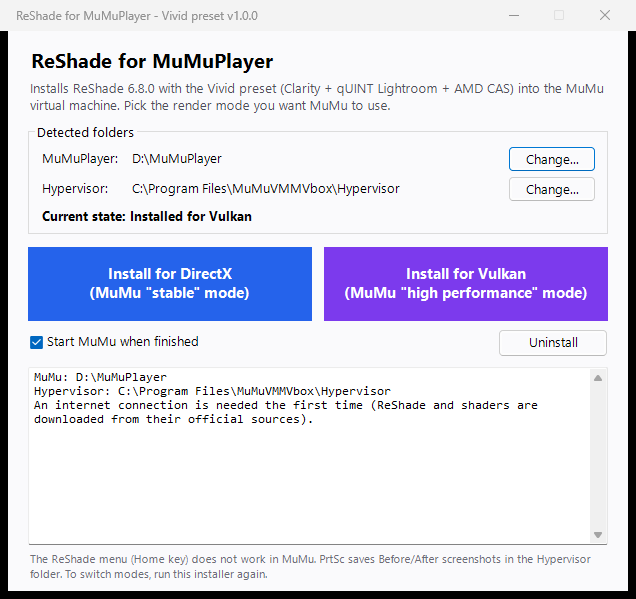
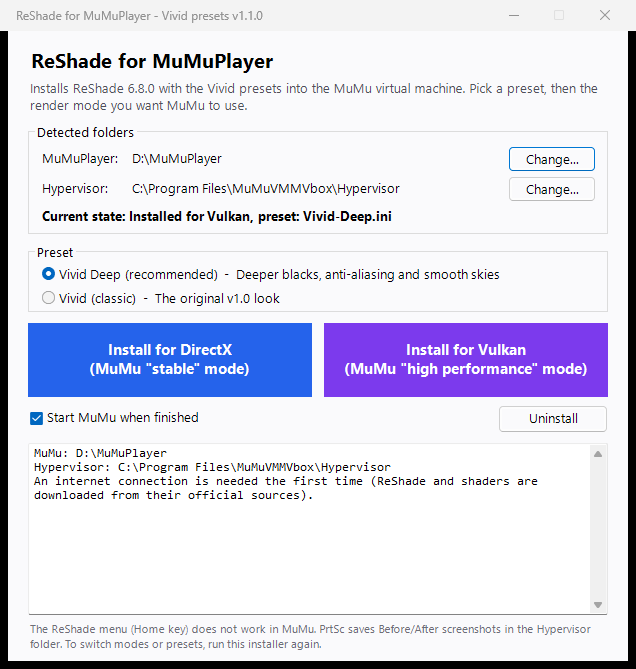
Add Vivid Deep preset and preset picker (v1.1.0)
- New "Vivid Deep" preset, now the default: HQAA Lite anti-aliasing,
  fine-texture Clarity, Vivid grading with deeper blacks, CAS and Deband
- Installer: preset picker (Vivid Deep / Vivid), both presets installed,
  current preset shown in the status line
- New pinned, SHA-256-verified downloads: HQAALite.fx, AreaTex.png,
  SearchTex.png (lordbean-git/HQAA), Deband.fx and ReShadeUI.fxh
  (crosire/reshade-shaders)
- README, third-party notices and installer screenshot updated

diff --git a/README.md b/README.md
@@ -4,18 +4,21 @@
 ![Platform](https://img.shields.io/badge/platform-Windows%2010%20%7C%2011-blue)
 ![MuMuPlayer](https://img.shields.io/badge/MuMuPlayer-5.x-7c3aed)
 
-A one-click installer that brings **ReShade 6.8.0** and a hand-tuned **"Vivid" preset** to **Destiny Rising** running on **MuMuPlayer**, in both **DirectX** and **Vulkan** render modes.
+A one-click installer that brings **ReShade 6.8.0** and two hand-tuned presets, **Vivid Deep** and **Vivid**, to **Destiny Rising** running on **MuMuPlayer**, in both **DirectX** and **Vulkan** render modes.
 
 ReShade does not work on MuMuPlayer out of the box. The emulator renders the game in a hidden virtual-machine process, and in Vulkan mode it blocks every Vulkan layer. This installer handles all of that for you.
 
-| Before | After (Vivid preset) |
+| Before | After (Vivid) |
 |:---:|:---:|
 | ![Before](docs/before.jpg) | ![After](docs/after.jpg) |
 
 ## Features
 
 - **DirectX and Vulkan support.** Pick MuMu's "stable" (DirectX) or "high performance" (Vulkan) mode. The installer also switches MuMu's render mode for you.
-- **Vivid preset.** Deeper blue skies, cleaner haze, richer greens and pinks, more contrast and crisper detail, without a yellow cast.
+- **Two presets.**
+  - **Vivid Deep** (new in v1.1.0): deep, true blacks, anti-aliased edges and smooth band-free skies on top of the Vivid colors.
+  - **Vivid**: deeper blue skies, cleaner haze, richer greens and pinks, more contrast and crisper detail, without a yellow cast.
+- **HUD-friendly.** No bloom, so the interface doesn't glow.
 - **Before/After screenshots.** Every <kbd>PrtSc</kbd> saves the same frame with and without effects.
 - **Nothing third-party bundled.** ReShade and the shaders are downloaded from their official sources, pinned to exact versions and verified with SHA-256.
 - **Clean switching and uninstall.** Run the installer again to switch modes or remove everything. Your screenshots are kept.
@@ -29,12 +32,13 @@ ReShade does not work on MuMuPlayer out of the box. The emulator renders the gam
 
 ## Installation
 
-1. Download `DestinyRising-ReShade-MuMu-v1.0.0.zip` from the [latest release](https://github.com/KIexster/DestinyRising-ReShade-MuMu/releases/latest) and extract it.
+1. Download `DestinyRising-ReShade-MuMu-v1.1.0.zip` from the [latest release](https://github.com/KIexster/DestinyRising-ReShade-MuMu/releases/latest) and extract it.
 2. Double-click **`Install ReShade MuMu.bat`**.
 3. Check that both folders were detected. Use **Change...** if one is missing:
    - **MuMuPlayer**: the folder that contains `nx_main`, e.g. `D:\MuMuPlayer`
    - **Hypervisor**: the folder that contains `MuMuVMMHeadless.exe`, usually `C:\Program Files\MuMuVMMVbox\Hypervisor`
-4. Click **Install for DirectX** or **Install for Vulkan**.
+4. Pick a preset: **Vivid Deep** (recommended) or **Vivid** (classic).
+5. Click **Install for DirectX** or **Install for Vulkan**.
 
 ![Installer](docs/installer.png)
 
@@ -43,7 +47,21 @@ The installer closes MuMu if it is running (this can take up to 2 minutes), inst
 > [!IMPORTANT]
 > Don't change the render mode in MuMu's own settings. Run the installer again and pick the other button instead. Otherwise ReShade won't load in the new mode.
 
-## The Vivid preset
+Both presets are always installed. To switch between them, run the installer again with the other preset selected.
+
+## The presets
+
+### Vivid Deep (recommended)
+
+| Effect | What it does |
+|---|---|
+| **HQAA Lite** (lordbean) | Hybrid SMAA + FXAA anti-aliasing that smooths jagged edges on foliage, railings and thin structures. Its built-in sharpening is turned off. |
+| **Clarity** (AstrayFX) | Fine-texture local contrast (small radius), leaving bright HUD pixels alone |
+| **qUINT Lightroom** | The Vivid color grading, plus a deeper black point and darker black/shadow curves for true blacks |
+| **AMD FidelityFX CAS** | Contrast-adaptive sharpening (0.5) |
+| **Deband** | Removes color banding in skies, fog and gradients |
+
+### Vivid (classic)
 
 | Effect | What it does |
 |---|---|
@@ -51,12 +69,12 @@ The installer closes MuMu if it is running (this can take up to 2 minutes), inst
 | **qUINT Lightroom** | Per-hue grading: shifts the cyan haze toward blue and whitens it, boosts greens, blues, pinks and reds, and adds contrast and a touch of exposure, with no global warmth |
 | **AMD FidelityFX CAS** | Contrast-adaptive sharpening (0.6) |
 
-The preset file is `Vivid.ini` in the Hypervisor folder. See [`installer/data/Vivid.ini`](installer/data/Vivid.ini) for all values.
+The preset files are `VividDeep.ini` and `Vivid.ini` in the Hypervisor folder. See [`installer/data`](installer/data) for all values.
 
 ## Known limitations
 
 - **The ReShade menu (<kbd>Home</kbd>) can't be opened.** MuMu draws the game in a disabled child window that belongs to the VM process. Keyboard and mouse input never reach ReShade, so the effects work but the overlay does not.
-  - To tweak the preset, edit `Vivid.ini` and restart MuMu. ReShade only reads the preset at startup.
+  - To tweak a preset, edit `VividDeep.ini` or `Vivid.ini` and restart MuMu. ReShade only reads the preset at startup.
 - **<kbd>PrtSc</kbd> is the only key ReShade sees.** ReShade polls that one key directly; all others arrive as window messages, which ReShade never receives in MuMu. You can take about one screenshot every 5 seconds.
 - **No depth-based effects.** ReShade can't access the game's depth buffer inside the emulator, so effects like ambient occlusion, depth of field or fog won't work.
 - **MuMu updates can remove ReShade.** If the effects disappear after an update, run the installer again.
@@ -92,6 +110,8 @@ The installer registers ReShade's layer under the name `VK_LAYER_reshade_renderd
 | `CAS.fx` | [CeeJayDK/SweetFX](https://github.com/CeeJayDK/SweetFX) | `93ddf39` |
 | `qUINT_lightroom.fx`, `qUINT_common.fxh` | [martymcmodding/qUINT](https://github.com/martymcmodding/qUINT) | `98fed77` |
 | `Clarity.fx` | [BlueSkyDefender/AstrayFX](https://github.com/BlueSkyDefender/AstrayFX) | `59bae8b` |
+| `ReShadeUI.fxh`, `Deband.fx` | [crosire/reshade-shaders](https://github.com/crosire/reshade-shaders) | `fd00221` |
+| `HQAALite.fx`, `AreaTex.png`, `SearchTex.png` | [lordbean-git/HQAA](https://github.com/lordbean-git/HQAA) | `d12e748` |
 
 Every file is checked against a SHA-256 hash in [`Installer.ps1`](installer/Installer.ps1) and cached in `%LOCALAPPDATA%\ReShade\MuMu\downloads`.
 
@@ -101,7 +121,7 @@ Every file is checked against a SHA-256 hash in [`Installer.ps1`](installer/Inst
 
 | Location | Contents |
 |---|---|
-| Hypervisor folder | `reshade-shaders\`, `ReShade.ini`, `Vivid.ini`, and `dxgi.dll` (DirectX mode only) |
+| Hypervisor folder | `reshade-shaders\`, `ReShade.ini`, `VividDeep.ini`, `Vivid.ini`, and `dxgi.dll` (DirectX mode only) |
 | `%LOCALAPPDATA%\ReShade\MuMu` | Download cache, plus `ReShade64.dll` and the layer manifest (Vulkan mode only) |
 | `HKCU\SOFTWARE\Khronos\Vulkan\ImplicitLayers` | Layer registration (Vulkan mode only) |
 
@@ -126,7 +146,9 @@ This project is not affiliated with or endorsed by NetEase, Bungie, MuMuPlayer o
 - [SweetFX](https://github.com/CeeJayDK/SweetFX) by CeeJay.dk, including AMD FidelityFX CAS by Advanced Micro Devices
 - [qUINT](https://github.com/martymcmodding/qUINT) by Pascal Gilcher (Marty McFly)
 - Clarity by Ioxa, maintained in [AstrayFX](https://github.com/BlueSkyDefender/AstrayFX) by BlueSkyDefender
+- [HQAA](https://github.com/lordbean-git/HQAA) by lordbean, built on NVIDIA FXAA and SMAA by Jorge Jimenez et al.
+- Deband by Niklas Haas, ported to ReShade in [crosire/reshade-shaders](https://github.com/crosire/reshade-shaders)
 
 ## License
 
-The installer and the Vivid preset are released under the [MIT License](LICENSE). Third-party components are not included in this repository. They are downloaded from their authors at install time and remain under their own licenses; see [THIRD_PARTY_NOTICES.md](THIRD_PARTY_NOTICES.md).
+The installer and the Vivid presets are released under the [MIT License](LICENSE). Third-party components are not included in this repository. They are downloaded from their authors at install time and remain under their own licenses; see [THIRD_PARTY_NOTICES.md](THIRD_PARTY_NOTICES.md).

diff --git a/THIRD_PARTY_NOTICES.md b/THIRD_PARTY_NOTICES.md
@@ -12,8 +12,12 @@ author's license.
 | `CAS.fx` (SweetFX) | Advanced Micro Devices; port by CeeJay.dk | https://github.com/CeeJayDK/SweetFX (`93ddf39b357f5da534ed6d34ba4ec8cc7dcfa361`) | MIT (notice in file) |
 | `qUINT_lightroom.fx`, `qUINT_common.fxh` | Pascal Gilcher (Marty McFly) | https://github.com/martymcmodding/qUINT (`98fed77b26669202027f575a6d8f590426c21ebd`) | Copyright the author; see file header and repository |
 | `Clarity.fx` | Ioxa; maintained by BlueSkyDefender | https://github.com/BlueSkyDefender/AstrayFX (`59bae8b33e34f37a8e521e666864085ccbf08535`) | Copyright the authors; see file header and repository |
+| `ReShadeUI.fxh` | crosire and contributors | https://github.com/crosire/reshade-shaders (`fd0022170615ce0d8162d219bff07232fa6dd84f`) | See repository |
+| `Deband.fx` | Niklas Haas; ReShade port in crosire/reshade-shaders | https://github.com/crosire/reshade-shaders (`fd0022170615ce0d8162d219bff07232fa6dd84f`) | MIT (notice in file) |
+| `HQAALite.fx` | lordbean; includes NVIDIA FXAA, AMD and SMAA code | https://github.com/lordbean-git/HQAA (`d12e74843399f5b85b4c28f8cd858022dfbcd165`) | Third-party parts under MIT-style notices in the file; see repository for the rest |
+| `AreaTex.png`, `SearchTex.png` | Jorge Jimenez et al. (SMAA) | https://github.com/lordbean-git/HQAA (`d12e74843399f5b85b4c28f8cd858022dfbcd165`) | SMAA license (MIT) |
 
-The Vivid preset (`Vivid.ini`) only contains parameter values for these effects and is part of this project (MIT).
+The presets (`VividDeep.ini`, `Vivid.ini`) only contain parameter values for these effects and are part of this project (MIT).
 
 ## ReShade license
 
